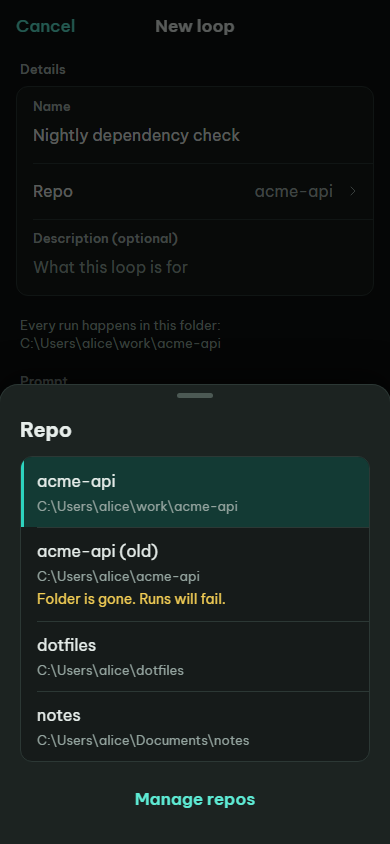
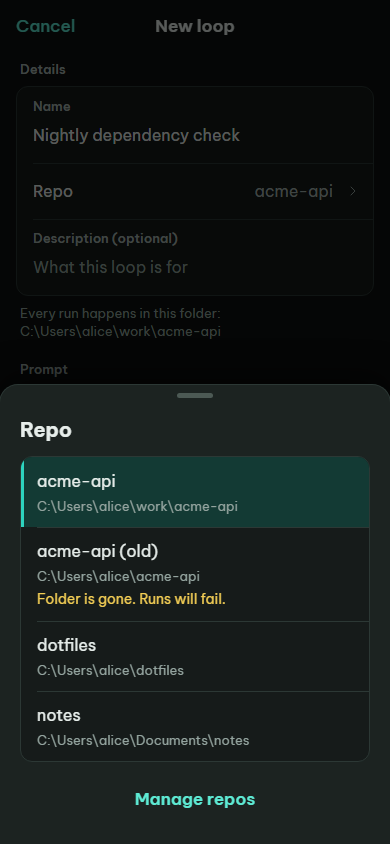
design: re-shoot the phone editor states, record the note spacing correction (castraferrum#205)

Changed region(s): [[0.0308, 0.3697, 0.5538, 0.4621]]

diff --git a/design/APPROVED.md b/design/APPROVED.md
@@ -395,3 +395,20 @@ behaviour wins, the preview is corrected and re-shot, this file records it; the 
 
 All shots re-shot with `npm run design:shots -- --design design/ds --compress`, light and dark: 26 shots changed (the 13
 states above), no other shot.
+
+## Agent correction under the owner's rule of 2026-10-23 - phone notes and cards under their group, 2026-10-24
+
+Made by the agent of the U27 defect lane "editor note spacing" (epic 63) under the rule in the epic's body (the owner is
+not asked). castraferrum#205: on the phone what a captioned group carries right after it sat the page's `--space-5`
+(20px) under the group; `reference/m-form-light.png` draws `--space-2` (8px): the Details group ends at y 287 and the
+repo note's line starts at y 296, the Schedule group ends at y 817 and the schedule preview card starts at y 826 (the
+boards' sections are one column with an 8px gap). The "Captions on the phone" rule of
+[`ds/SYSTEM.md`](ds/SYSTEM.md) now covers it, with one selector in [`ds/components.css`](ds/components.css) ("Inset
+list"): a `.group-note`, `.note`, `.card` or `.btn` right after a captioned `.group` sits `--space-2` under it. The app
+has four such parts, all in the editor: the repo note, the schedule preview, the mock agent's note and Register a repo
+(no repo yet); `tests/visual/ds/layout.visual.ts` finds and measures each of them in the real app. No other phone board
+draws a note or card under a group on a page (the folder sheet's hint keeps the sheet's own `--space-3`).
+
+Re-shot with `npm run design:shots -- --design design/ds`, light and dark (10 shots), the phone editor states:
+`phone-form-new`, `phone-form-errors`, `phone-form-repo-pick`, `phone-form-sched-daily`, `phone-form-sched-weekly`.
+No other shot changed.
